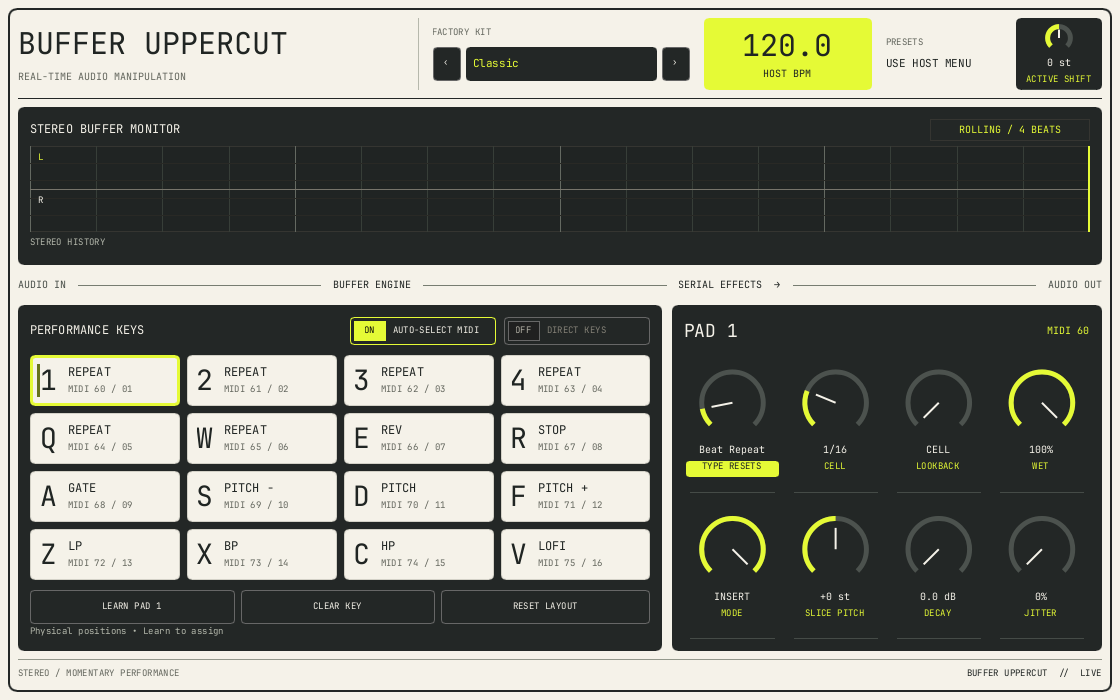
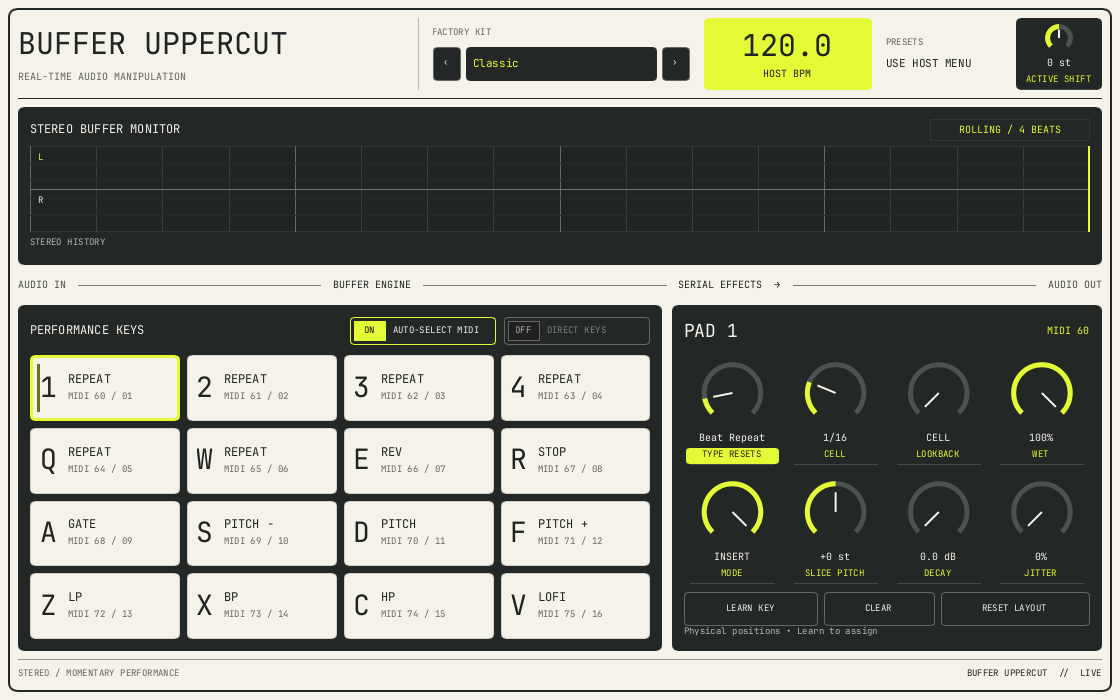
Move key mapping controls below selected pad knobs

Changed region(s): [[0.0, 0.51, 0.9688, 0.93]]

diff --git a/docs/TESTING.md b/docs/TESTING.md
@@ -131,6 +131,12 @@ Earlier editor/Pitch/preview evidence below does not verify this increment.
 
 ### Remaining host checklist
 
+User feedback on Preview 4 confirms pad and knob automation recording in
+Ableton Arrangement View with Automation Arm enabled. This does not yet cover
+the full replay, save/reopen, or cleanup checklist below. The subsequent layout
+revision places key-mapping controls below the selected pad's knobs; all five
+size/captured/Vinyl renders were visually reviewed for that placement.
+
 - Ableton Live VST3: enable Arrangement Automation Arm, record key and pointer
   gestures, inspect Trigger 1/0 edges, replay without live input, then save/reopen
   and replay. Test Session automation separately and record its settings.

diff --git a/docs/ARCHITECTURE.md b/docs/ARCHITECTURE.md
@@ -215,7 +215,8 @@ embedded editor.
 The native editor uses a cream chassis, charcoal instrument panels, and acid
 yellow accents. Factory navigation and tempo sit above the stereo monitor;
 an aligned four-by-four bank of light keycaps sits beside the effect selector
-and all seven macros. A static signal-route strip describes audio flow.
+and all seven macros. Key assignment controls and their status sit below the
+knobs in the selected-pad panel. A static signal-route strip describes audio flow.
 
 Yellow outlines and a left marker identify the selected pad; yellow fill and
 ACTIVE/HELD text identify performance holds, and warm orange identifies suspended
